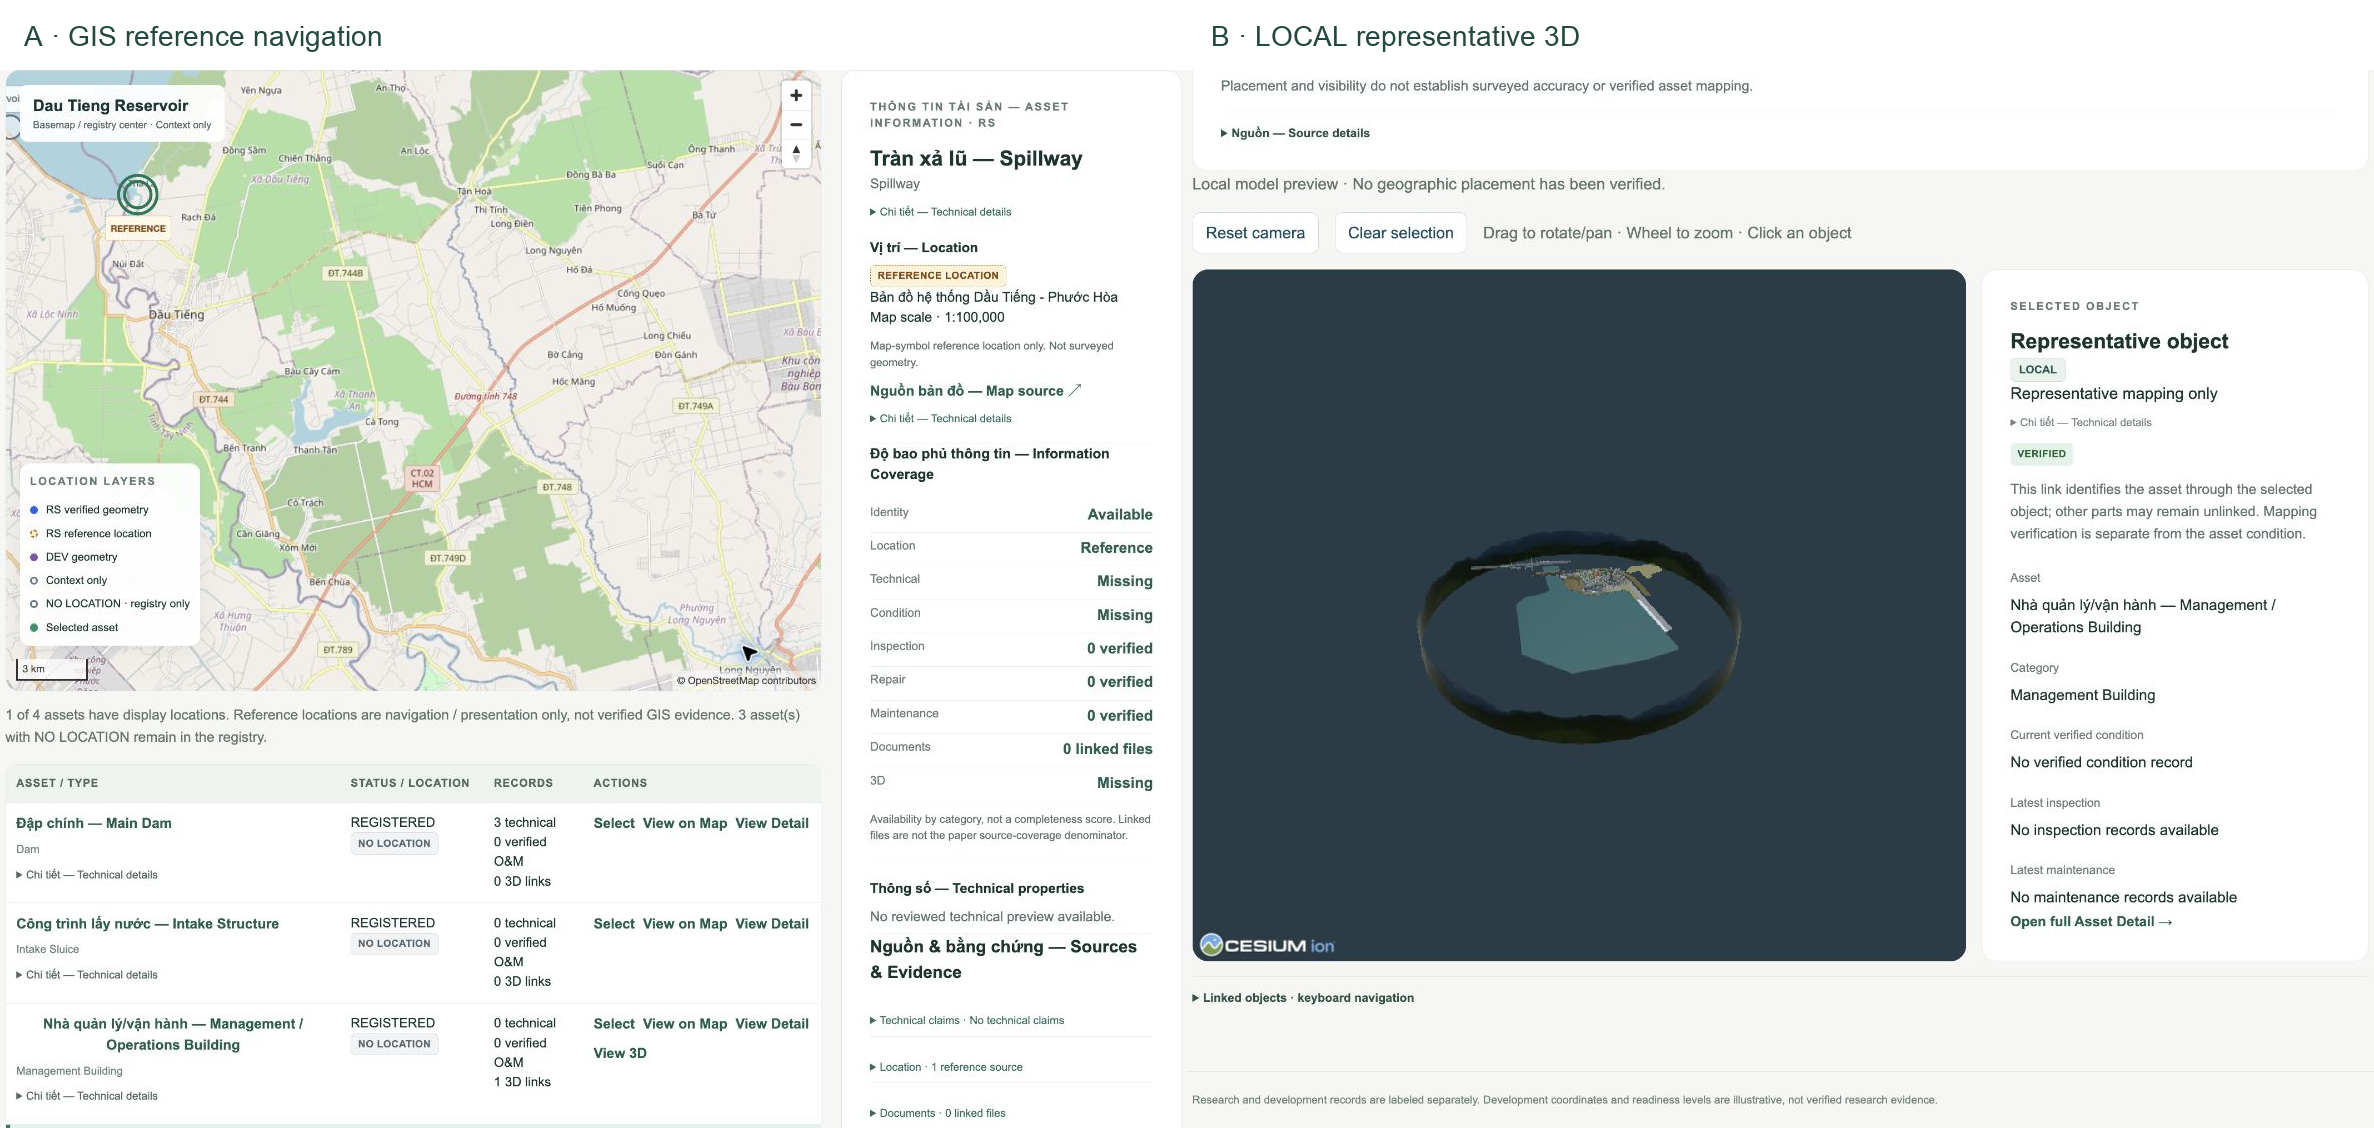
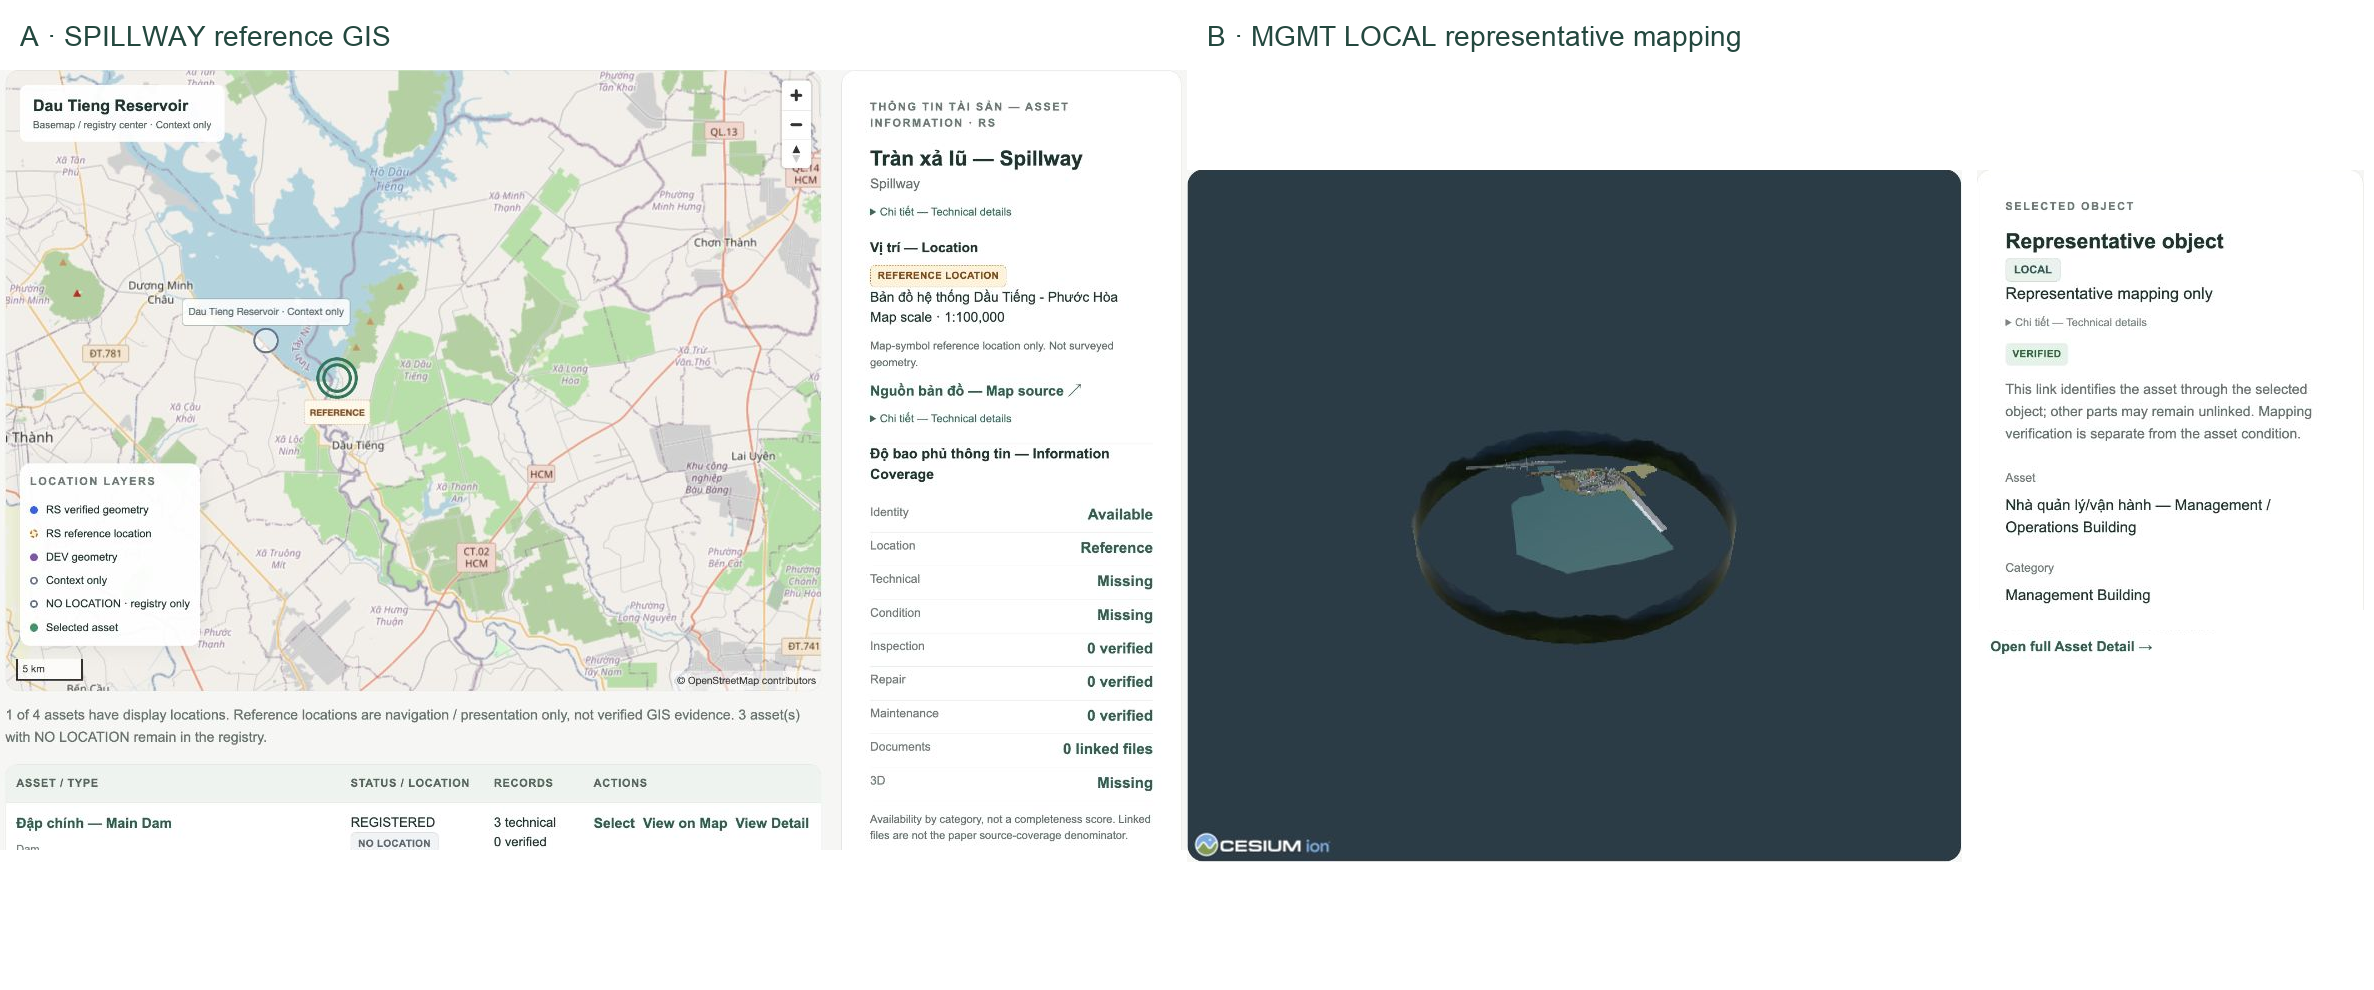
Archive and recapture paper figures after bounded evidence checks

diff --git a/research/evaluation/paper_preparation.md b/research/evaluation/paper_preparation.md
@@ -84,3 +84,42 @@ For main-paper Table 3, select Registry/Detail, GIS selection, document preview,
 Ten targeted tests pass; modified frontend lint and production build/typecheck pass. Browser inspection covered Registry, GIS popup/panel, two-column detail, technical, document, O&M and representative 3D. Current document/3D tab error logs were empty after navigating through the configured API origin. Responsive stacking is implemented in CSS; no claim of a full device matrix. Native details were inspected for accessible/copyable canonical identifiers.
 
[1 lines of base64/hex data omitted]
+
+
+## PAPER-DATA-ENRICH-RECAPTURE
+
+Reused the supplied bounded pre-research; no broad Drive search or full archive OCR. Checks A–D and exact locators are retained in private `evidence/PAPER-DATA-ENRICH-RECAPTURE/decision_queue.md`.
+
+- A: approved dictionary only contains the three historical wall keys. Monitoring count/period/0.50 m offset stay reference/review-pending; no MAIM extension or technical import. Monitoring-equipment operation does not establish DAM condition.
+- B: workbook YEAR_ONLY entries lack exact completed-event dates; indexed XL1/XL5 findings concern design adjustment, contract/minutes dates or blank day/month. No qualified completed O&M event identified in the bounded review; no archive-wide absence claim.
+- C: B01B/model review identifies a representative MGMT roof but does not establish name equivalence with sail building, operating complex or branch-office entrance. Mapping remains unresolved for those activity candidates; INTAKE ambiguity unchanged; no components created.
+- D: exact DAM input-summary document RS-DOC-017 and hash match the existing DB document; no duplicate. Source map and workbook have no matching imported Document row and no direct supporting-document linkage contract in the existing API, which derives assets' documents via technical/O&M sources. Their relevance is retained, but no fake technical/event row or new schema was introduced to force links. Supporting-link candidates remain pending workflow support.
+
+No qualified batch, so compiler/dry-run/apply/retry was not applicable. DB/media snapshot before and after is identical; all 46 controlled hashes and both sidecars unchanged. Document API links remain DAM=1, others=0. F02/F05 pending, dataset NOT_READY and not frozen.
+
+UI: shared asset display wrapper and popup title use explicit left alignment; wrapped MGMT lines share the left edge across registry, detail, components and 3D. Browser computed style confirmed left. In paper panel only, actual reviewed technical records and meaningful document filenames come first; assets without technical evidence retain location-first layout. No empty states removed from full UI.
+
+All S1–S7 were freshly captured, replacing working filenames after old images/hashes were archived under `evidence/PAPER-DATA-ENRICH-RECAPTURE/previous-docs` and `previous-paper`. Capture set `paper_data_enrich_recapture` records software commit, date, URL, DB/media and sidecar hashes. S1 selects DAM with L2 and document; S2 selects reference SPILLWAY; S3 shows L2 technical; S4 actual PDF; S5 MGMT LOCAL representative/left alignment; S6 true verified-empty O&M; S7 supplementary coverage. 3D uses preexisting allowed API origin 3000; other screenshots use temporary production preview 3100.
+
+Hình 3 = S2 + S5. Hình 6 current = S1 + S3 + S5 because no qualified enrichment made coverage substantively richer. S7 remains supplementary/Table-2 support; S6 stays out of main figures. The S5 composite uses actual canvas, identity/LOCAL and asset-link excerpts, keeping empty O&M fields in full S5/S6. Hình 1/2 and source-map Hình 5 current are unchanged including hashes. Historic capture sets are preserved, not relabeled.
+
+Table 2 exporter now accepts `--snapshot`; run `python3 scripts/export_paper_ui_counts.py --snapshot research/evaluation/evidence/PAPER-DATA-ENRICH-RECAPTURE/db-after.json`. This prevents silently exporting an older stage snapshot. Recomputed values and definitions below are unchanged. API-derived linked files differ from distinct retained documents.
+
+| Metric | Before | After | Evidence / reason |
+|---|---:|---:|---|
+| Target assets | 4 | 4 | controlled RS asset count |
+| Reviewed identities | 4 | 4 | researcher identity inclusion review / 4; not independent domain approval |
+| Verified geometry | 0 | 0 | canonical RS geometry / 4; all null, no surveyed geometry |
+| Reference locations | 1 | 1 | separate / 4; excluded from verified numerator |
+| Technical records | 3 | 3 | RS records; level from bound reviewed provenance |
+| L2 technical records | 3 | 3 | historical L2; no promotion |
+| Verified current condition | 0 | 0 | assets with verified condition / 4 |
+| Verified O&M events | 0 | 0 | verified condition/inspection/repair/maintenance records; not real-world activity count |
+| Controlled sources | 17 | 17 | reviewed source inventory rows, including candidate/reference sources |
+| Expected-file sources | 12 | 12 | file_expected=true; distinct from linked documents |
+| Reviewed distinct documents | 5 | 5 | distinct SHA-256 among IMPORT file-retention reviews; not validated content |
+| Selected 3D targets | 1 | 1 | approved requires_3d=true scope |
+| Representative verified links | 1 | 1 | representative link records / 1 selected target; LOCAL, not full geometry |
+| Asset-document API links | 1 | 1 | DAM 1; SPILLWAY/INTAKE/MGMT 0; source-derived, no direct link contract |
+
+Targeted verification: 10 presentation/location tests, lint of modified TSX paths and production build/typecheck pass. Browser smoke covers selected DAM, SPILLWAY reference GIS, technical, actual PDF, MGMT 3D and alignment, O&M and coverage; no errors in inspected current tab logs. No full regression. Captions, figure-state, docs manifest and private 43-file package manifest updated.

diff --git a/docs/paper_img/README.md b/docs/paper_img/README.md
@@ -1,24 +1,26 @@
-# Paper images — PAPER-UI-CLEAN
+# Paper images — PAPER-DATA-ENRICH-RECAPTURE
 
 S1.png–S7.png follow the screenshot identifiers in the supplied plan. They are real browser captures, converted from JPEG without content edits. Diagrams and composites are separately named.
 
 | File | Paper placement | Meaning |
 |---|---|---|
-| S1.png | §4.2, Hình 6 current A | Four RS assets, selected DAM |
+| S1.png | §4.2, Hình 6 current A | Selected DAM, L2 records and actual linked PDF |
 | S2.png | §3.4, Hình 3 A | Reference GIS; attribution and scale retained |
-| S3.png | Optional §4.2 / supporting evidence | Three historical L2 technical records |
+| S3.png | §4.2 Hình 6 current B | Three historical L2 technical records |
 | S4.png | Supporting evidence | Actual PDF preview; native toolbar may show transient blob ID |
 | S5.png | §3.4 / §4.2 | LOCAL representative MGMT mapping |
 | S6.png | Private supporting evidence | No verified O&M record; not absence of real maintenance |
-| S7.png | §4.3 / Hình 6 current B | Information coverage and source/evidence summary |
+| S7.png | §4.3 supplementary only | Information coverage and source/evidence summary |
 | Hinh_1.png | §3.1 | Authored phased architecture, not screenshot |
 | Hinh_2.png | §3.3 | Authored review workflow, not screenshot |
 | Hinh_3.png | §3.4 | S2 + S5; common asset-key navigation, different selected assets |
 | Hinh_5_current.png | §4.1 | Controlled GeoPDF context; only approved SPILLWAY reference annotation |
-| Hinh_6_current.png | §4.2 | S1 + S7 + S5 |
+| Hinh_6_current.png | §4.2 | S1 + S3 + S5 |
 
 Hình 5 current → Hình 4 and Hình 6 current → Hình 5 only at manuscript-final when all cross-references are updated. §5 refers back to these figures and Tables 2/3; no decorative discussion figures.
 
 All four canonical RS geometries remain NULL. Reference location is not verified GIS; LOCAL representative mapping is not full semantic decomposition. F02/F05 and NOT_READY/not frozen remain unchanged. No synthetic coverage score.
 
 Figure state, capture URLs, snapshot and sidecar checksums are recorded in the private research/evaluation/results/paper package. Images retain source content; this folder is for the requested local document preparation and the existing private repository, not authorization for public source redistribution.
+
+Current screenshots S1–S7 were freshly captured for software 6c14892. Previous image bytes and hashes are archived in private evidence/PAPER-DATA-ENRICH-RECAPTURE/previous-docs. Hình 1/2 and Hình 5 current remain byte-identical. Composite S5 uses separate actual canvas, identity/LOCAL and navigation-link excerpts; full condition/O&M fields remain in S5/S6.

diff --git a/STAGE_OUTPUTS.md b/STAGE_OUTPUTS.md
@@ -330,3 +330,13 @@ Kết quả triển khai và kiểm tra theo từng stage.
[1 lines of base64/hex data omitted]
 - Preparation and manuscript image mapping updated in `research/evaluation/paper_preparation.md`; outputs remain outside project README. Current figure numbers preserved until manuscript-wide renumbering.
 - Cleanup verified: task preview 3100 stopped and port released. Preexisting web 3000, API 8000 and PostGIS/Docker remain running; no volumes removed.
+
+
+## Stage PAPER-DATA-ENRICH-RECAPTURE output
+
+- Completed bounded checks A–D using the supplied pre-research and existing reviewed locators. No candidate satisfied existing technical/date/identity/document-link contracts, so no import or schema change. Monitoring candidates remain reference, YEAR_ONLY O&M blocked, MGMT name equivalence/INTAKE ambiguous; map/workbook supporting links pending a direct-link workflow. DAM document already exists; no duplicate.
+- Shared VN–EN asset names explicitly left aligned, including wrapped MGMT; paper DAM panel foregrounds actual L2 records and meaningful document filename. Missing-technical assets retain location-first presentation. Table exporter accepts an explicit current snapshot.
+- Recaptured all S1–S7, archived previous bytes/hashes, replaced docs/paper_img filenames. Hình 3 rebuilt S2+S5; Hình 6 current rebuilt S1+S3+S5. S7 supplementary, S6 not main figure. Hình 1/2/source map unchanged. Capture set paper_data_enrich_recapture binds software `6c14892`; captions/state and 43-file private manifest refreshed.
+- Checks: 10 targeted tests, modified-path lint, build/typecheck and seven-view browser smoke passed. MGMT computed text-align=left. No full regression. DB/media unchanged, 46 controlled hashes and provenance/location sidecars unchanged. F02/F05 pending, NOT_READY/not frozen preserved.
+- Counts before→after: RS 4→4; researcher identities 4→4; canonical geometry 0→0; reference 1→1; technical 3 L2→3 L2; verified condition/O&M 0→0; sources 17→17; expected files 12→12; distinct reviewed documents 5→5; asset-document API links 1→1; selected 3D target/representative link 1/1→1/1. Detailed definitions and before/after report in preparation/private evidence.
+- Task preview 3100 stopped; existing API 8000/web 3000/PostGIS preserved. Remote visibility was observed PUBLIC at final push check (previous stage was PRIVATE); new paper images/docs require explicit public-publication confirmation before pushing.
